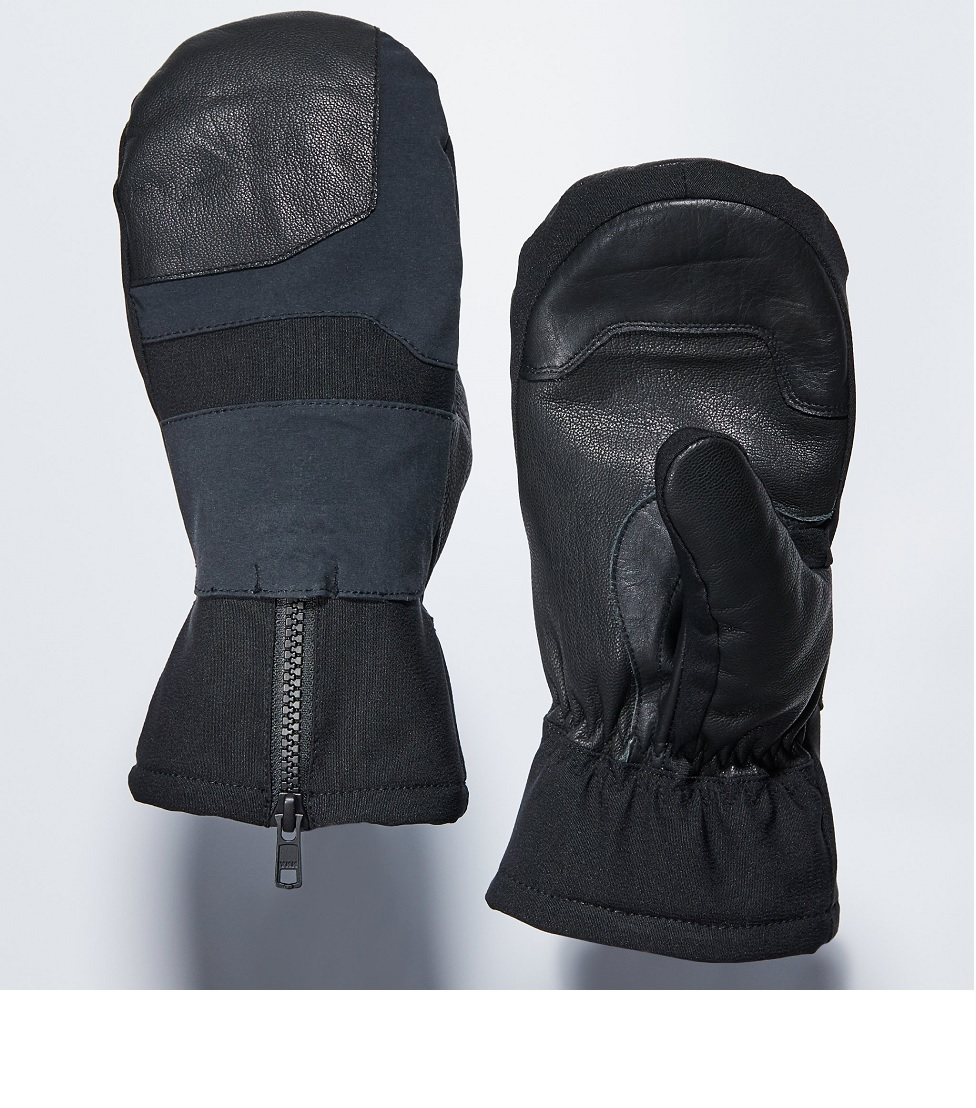
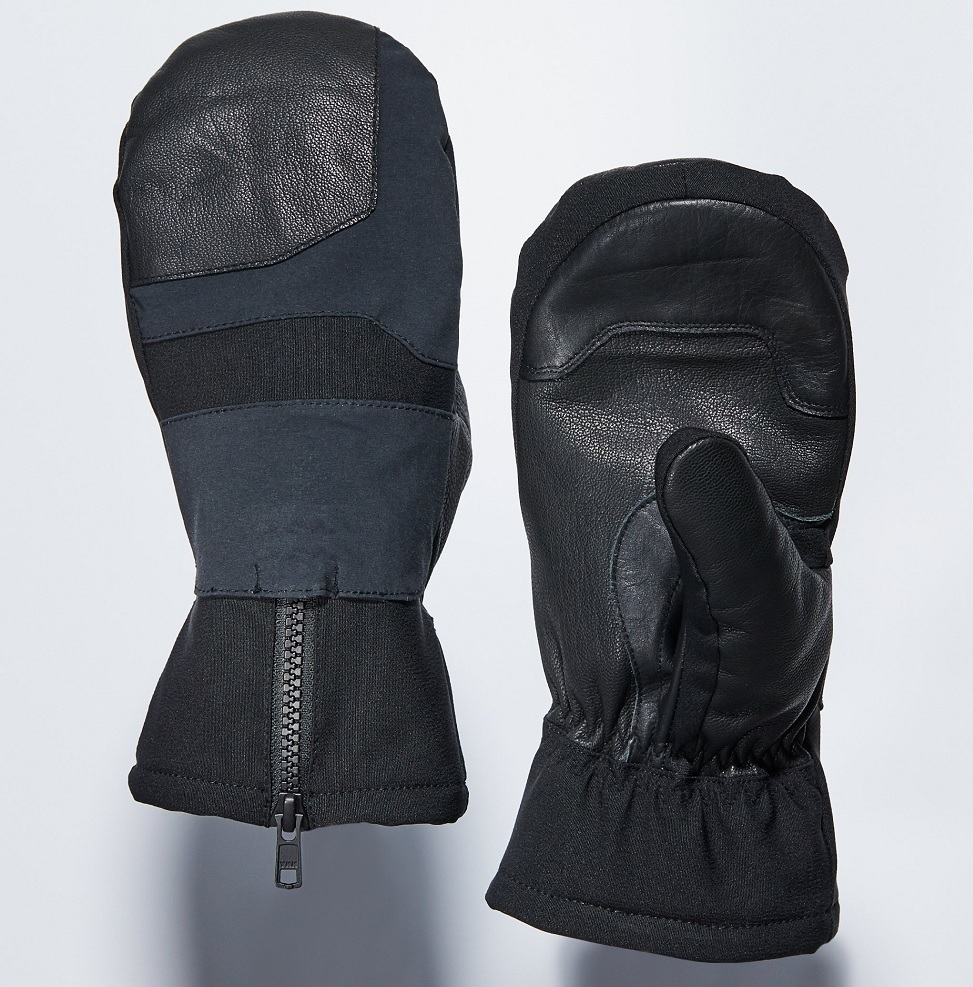
Compress mens accessories images

diff --git a/src/pages/mens/accessories.js b/src/pages/mens/accessories.js
@@ -23,13 +23,13 @@ const MensAccessories = () => (
                         <Link href="/mens/accessories/tee"><a className="home__link home__link--item">SHOP TEE</a></Link>
                     </div>
                     <div className="home__image-area">
-                        <img src="/tee_main.jpg" alt="main woman" className="home-image"/>
+                        <img src="/tee_main_min.jpg" alt="main woman" className="home-image"/>
                     </div>
                 </div>
 
                 <div className="home__row">
                     <div className="home__image-area">
-                        <img src="/beanie_main.jpg" alt="main woman" className="home-image"/>
+                        <img src="/beanie_main_min.jpg" alt="main woman" className="home-image"/>
                     </div>
                     <div className="home__text-area home__text-area--men">
                         <h3>The Beanie</h3>
@@ -45,7 +45,7 @@ const MensAccessories = () => (
                         <Link href="/mens/accessories/mittens"><a className="home__link home__link--item">SHOP MITTENS</a></Link>
                     </div>
                     <div className="home__image-area">
-                        <img src="/men/accessories/mitten_main.jpg" alt="main woman" className="home-image"/>
+                        <img src="/men/accessories/mitten_main_min.jpg" alt="main woman" className="home-image"/>
                     </div>
                 </div>
 

diff --git a/src/pages/mens/accessories/beanie.js b/src/pages/mens/accessories/beanie.js
@@ -8,7 +8,7 @@ const MenBeanie = () => {
     const name = 'The Beanie';
     const cost = 35;
     const [colorSelected, setColorSelected] = useState('gray');
-    const [imgSrc, setImgSrc] = useState('/beanie_gray.jpg');
+    const [imgSrc, setImgSrc] = useState('/beanie_gray_min.jpg');
     const [size, setProductSize] = useState('none');
     
     function addItemToCart() {
@@ -62,11 +62,11 @@ const MenBeanie = () => {
             switch (e.target.value) {
                 case 'gray':
                     setColorSelected('gray');
-                    setImgSrc('/beanie_gray.jpg');
+                    setImgSrc('/beanie_gray_min.jpg');
                     break;
                 case 'blue':
                     setColorSelected('blue');
-                    setImgSrc('/beanie_blue.jpg');
+                    setImgSrc('/beanie_blue_min.jpg');
                     break;
                 default:
                     break;

diff --git a/src/pages/mens/accessories/mittens.js b/src/pages/mens/accessories/mittens.js
@@ -9,7 +9,7 @@ const MenMittens = () => {
     const name = 'The Mitten';
     const cost = 79;
     const [colorSelected, setColorSelected] = useState('dark');
-    const [imgSrc, setImgSrc] = useState('/men/accessories/men_mittens.jpg');
+    const [imgSrc, setImgSrc] = useState('/men/accessories/men_mittens_min.jpg');
     const [size, setProductSize] = useState('m');
 
     function addItemToCart() {
@@ -81,7 +81,7 @@ const MenMittens = () => {
             switch (e.target.value) {
                 case 'dark':
                     setColorSelected('dark');
-                    setImgSrc('/men/accessories/men_mittens.jpg');
+                    setImgSrc('/men/accessories/men_mittens_min.jpg');
                     break;
                 default:
                     break;

diff --git a/src/pages/mens/accessories/tee.js b/src/pages/mens/accessories/tee.js
@@ -9,7 +9,7 @@ const MenTee = () => {
     const name = 'Mens Tee';
     const cost = 25;
     const [colorSelected, setColorSelected] = useState('dark');
-    const [imgSrc, setImgSrc] = useState('/tee.jpg');
+    const [imgSrc, setImgSrc] = useState('/tee_min.jpg');
     const [size, setProductSize] = useState('s');
 
     function addItemToCart() {
@@ -84,7 +84,7 @@ const MenTee = () => {
             switch (e.target.value) {
                 case 'dark':
                     setColorSelected('dark');
-                    setImgSrc('/tee.jpg');
+                    setImgSrc('/tee_min.jpg');
                     break;
                 default:
                     break;
